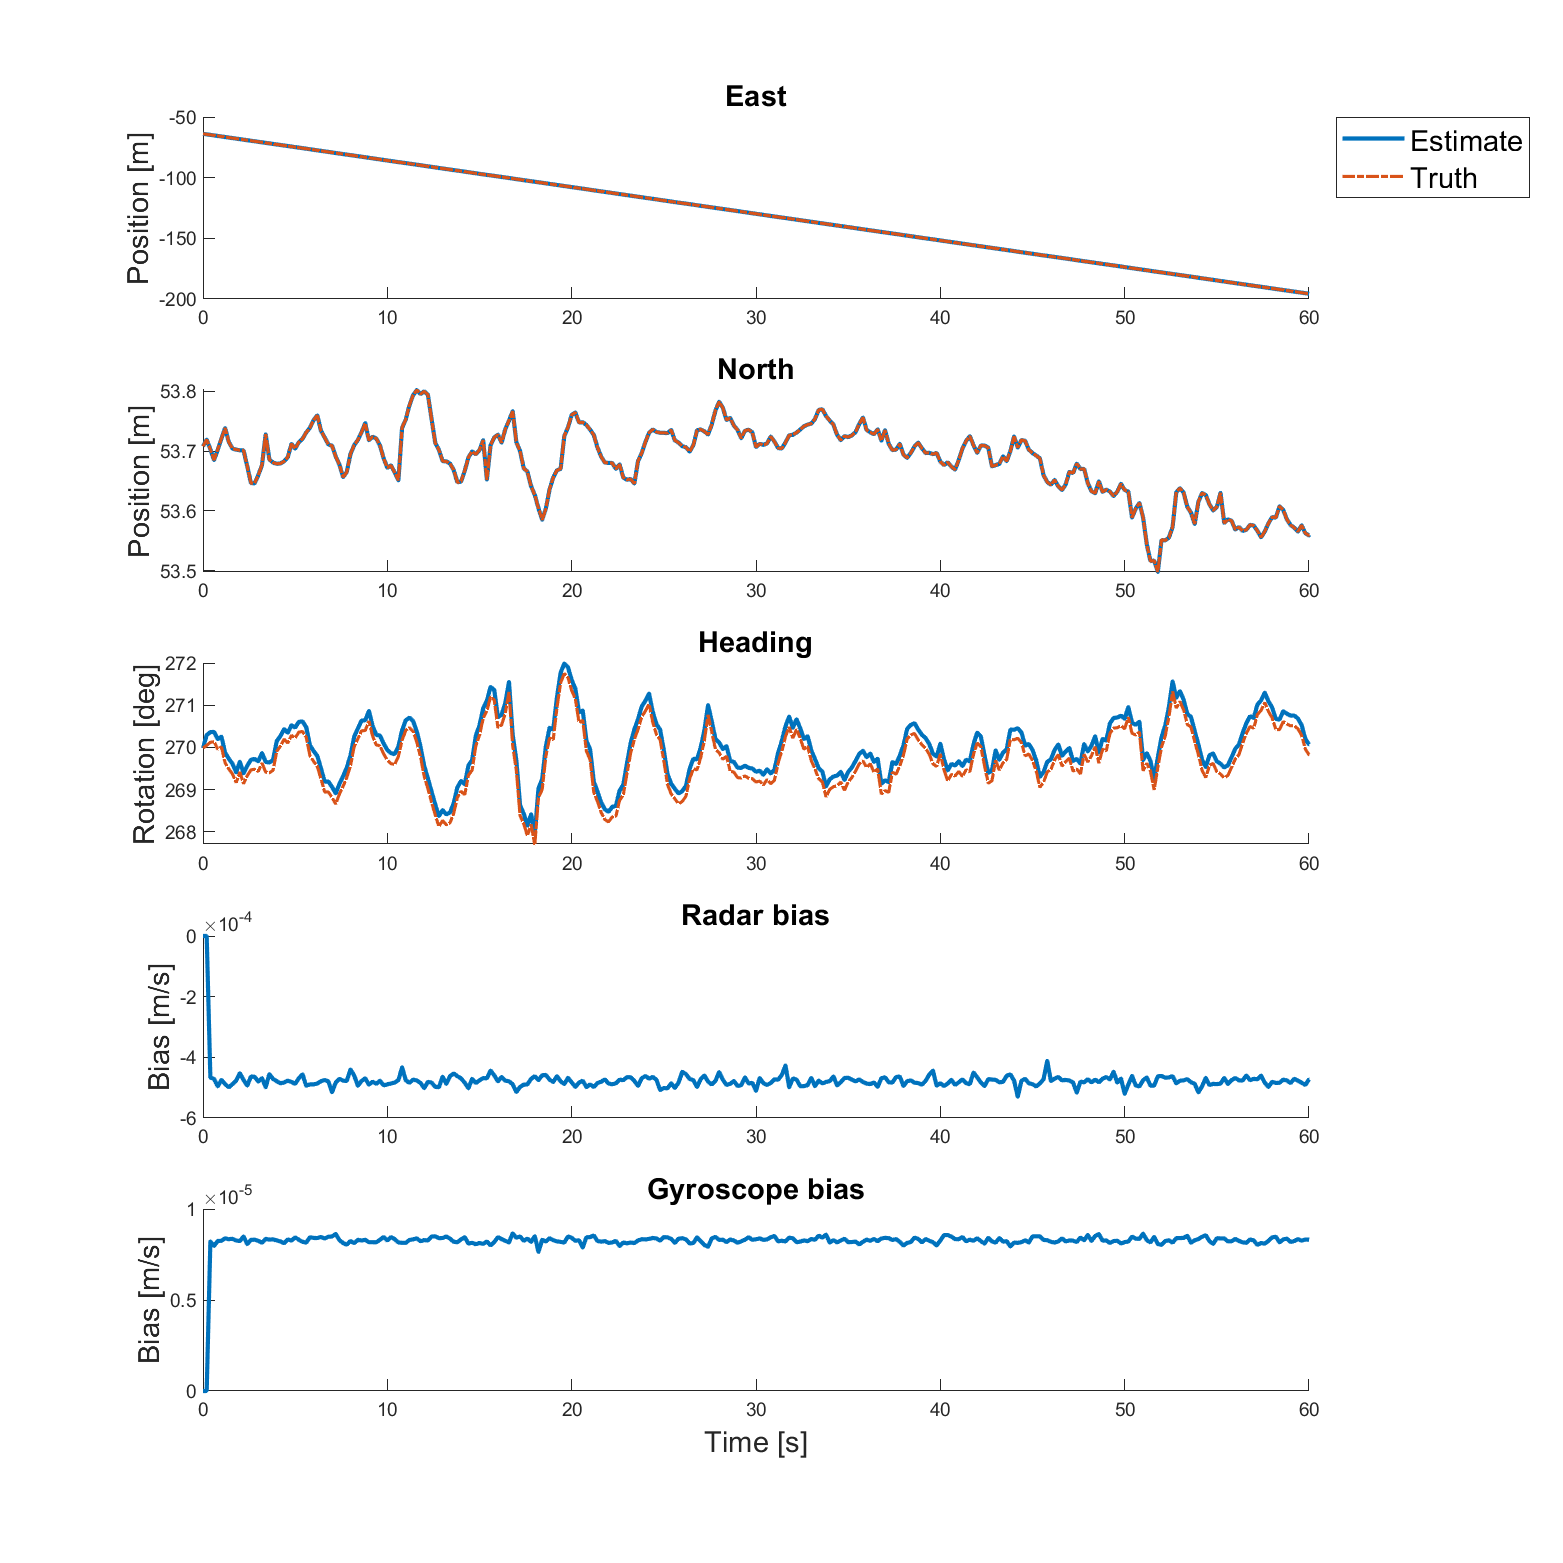
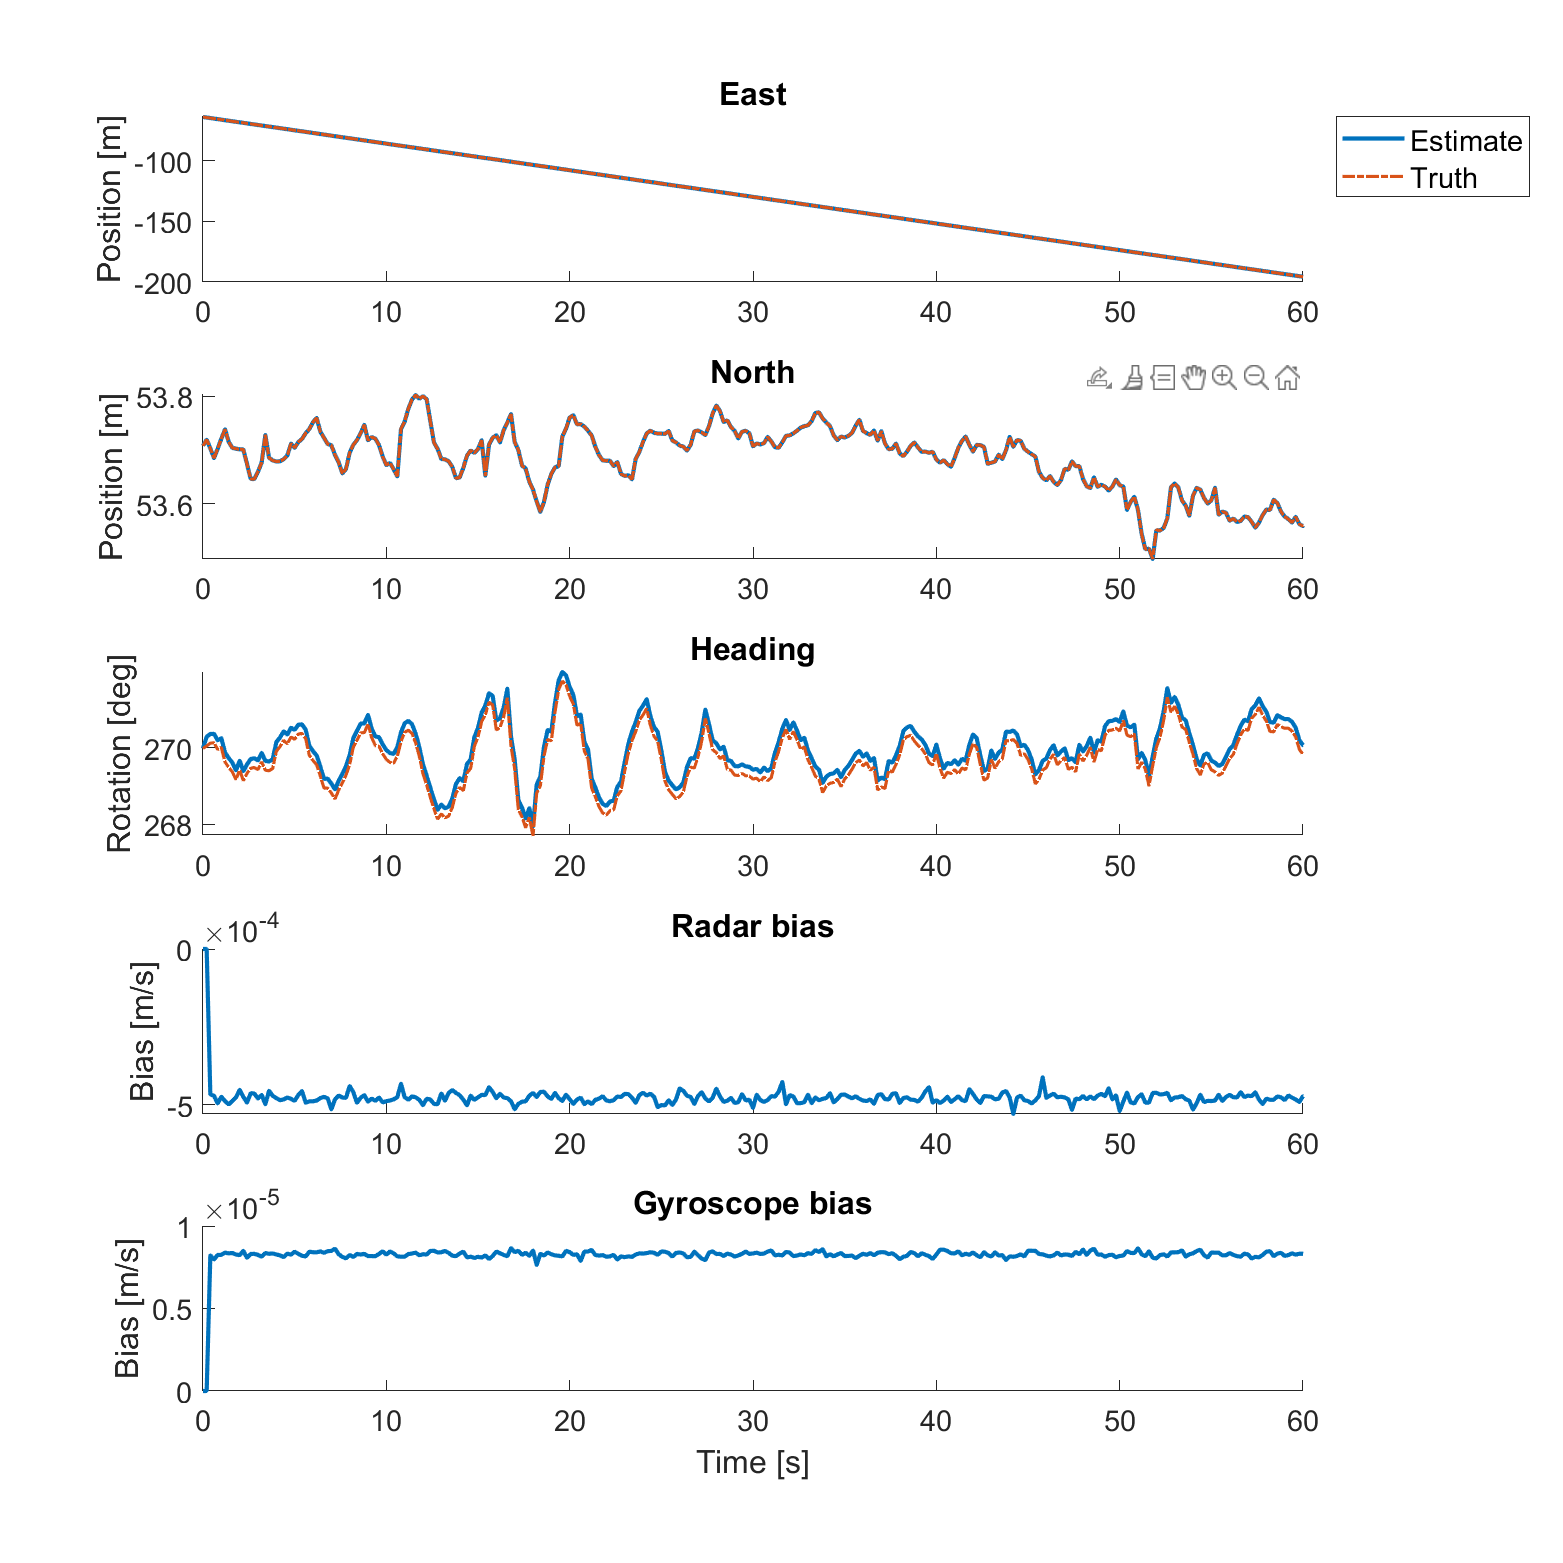
Finished Question 3

diff --git a/hw3.tex b/hw3.tex
@@ -309,12 +309,115 @@
             \item[ii.] simply update the A matrix at every time step with our measurements or estimates
         \end{itemize}
         Download the data \textit{hw3\_3} from the website and run the filter sampled at 5 Hz}
+
+    \solution{%
+        To filter the measurements, I chose option \textit{ii}. Updating the discrete $\mathbf{A}_d$ and $\mathbf{B}_d$ matrices at each time step can be seen in equation \ref{eq:ad} and \ref{eq:bd}.
+
+        \begin{equation}
+            \begin{split}
+                \mathbf{A}_d & =
+                \begin{bmatrix}
+                    1 & 0 & 0 & -\sin(\hat{\psi})\Delta t & 0         \\
+                    0 & 1 & 0 & -\cos(\hat{\psi})\Delta t & 0         \\
+                    0 & 0 & 1 & 0                         & -\Delta t \\
+                    0 & 0 & 0 & 1                         & 0         \\
+                    0 & 0 & 0 & 0                         & 1         \\
+                \end{bmatrix}
+            \end{split}
+            \label{eq:ad}
+        \end{equation}
+
+        \begin{equation}
+            \begin{split}
+                \mathbf{B}_d & =
+                \begin{bmatrix}
+                    \sin(\hat{\psi})\Delta t & 0        \\
+                    \cos(\hat{\psi})\Delta t & 0        \\
+                    0                        & \Delta t \\
+                    0                        & 0        \\
+                    0                        & 0        \\
+                \end{bmatrix}
+            \end{split}
+            \label{eq:bd}
+        \end{equation}
+
+        After updating the discrete $\mathbf{A}_d$ and $\mathbf{B}_d$ matrices, we can proceed with the \textit{Time Update} of the Extended Kalman Filter (Equation \ref{eq:MU}).
+
+        \begin{equation}
+            \begin{split}
+                \mathbf{\hat{x}}^t_k & = \mathbf{A}_d \mathbf{\hat{x}}^m_{k-1} + \mathbf{B}_d \mathbf{U}_{k-1}\\
+                \mathbf{P}^t_k & = \mathbf{A}_d \mathbf{P}^m_k \mathbf{A}_d^T + \mathbf{Q}_k\\
+            \end{split}
+            \label{eq:MU}
+        \end{equation}
+
+        Where $\mathbf{U}_{k-1}$ are the estimated radar and gyroscope sensor biases. Equation \ref{eq:TU} describes the \textit{Measurement Update} of the Extended Kalman Filter.
+
+        \begin{equation}
+            \begin{split}
+                \mathbf{L}_k & = \mathbf{P}^t_k \mathbf{C}^T_d \left(\mathbf{C}_d \mathbf{P}^t_k \mathbf{C}_d^T + R_k\right)^{-1}\\
+                \mathbf{P}^m_k & = \left(\mathbf{I} - \mathbf{L}_k \mathbf{C}_d\right)\mathbf{P}^t_k \\
+                \mathbf{\hat{x}}^m_k & = \mathbf{\hat{x}}^t_k + \mathbf{L}_k \left(Y_k - \mathbf{C}_d \mathbf{\hat{x}}^t_k\right) \\
+            \end{split}
+            \label{eq:TU}
+        \end{equation}
+
+        After trial and error with choosing the correct process noise matrix ($\mathbf{Q}_d$), we are able to filter the measurements fairly accurately. Figure \ref{fig:Q3} shows the first 60 seconds of the filter running using \textit{hw3\_3} as measurements.
+
+        \begin{figure}[!h]
+            \centering
+            \includegraphics[width=.75\linewidth]{Q3filter.png}
+            \caption{Estimated states using a discrete EKF.}
+            \label{fig:Q3}
+        \end{figure}
+        \clearpage
+    }
     \begin{parts}
-        \part{How did you choose the covariance values for $Q_d$ (especially for the radar and gyro biases)?}
+        \part{How did you choose the covariance values for $\mathbf{Q}_d$ (especially for the radar and gyro biases)?}
 
-        \part{How does the bias estimation compare to least squares solution? How do the bias estimate compare to the Recursive Least Squares solution if you make the covariance ($Q_d$) of the bias estimates equal to zero?}
+        \solution{%
+            Values for $\mathbf{Q}_d$ were determined to be very small because the measurements seem to have little noise on them. The radar and gyro biases were even smaller because the biases were assumed to be constant.
 
+            \begin{equation}
+                \begin{split}
+                    \mathbf{Q}_d & =
+                    \begin{bmatrix}
+                        0.01 & 0    & 0    & 0      & 0      \\
+                        0    & 0.01 & 0    & 0      & 0      \\
+                        0    & 0    & 0.01 & 0      & 0      \\
+                        0    & 0    & 0    & 0.0001 & 0      \\
+                        0    & 0    & 0    & 0      & 0.0001 \\
+                    \end{bmatrix}
+                \end{split}
+                \label{}
+            \end{equation}
+        }
+        \clearpage
+        \part{How does the bias estimation compare to least squares solution? How do the bias estimate compare to the Recursive Least Squares solution if you make the covariance ($\mathbf{Q}_d$) of the bias estimates equal to zero?}
+
+        \solution{%
+            The recursive least squares solution is considerably worse than the Kalman Filter. This is probably because the least squares algorithm assumes a linearized dynamics model compared to a the Extended Kalman Filter where a nonlinear dynamic model is expected.
+
+            \begin{figure}[!h]
+                \centering
+                \includegraphics[width=.75\linewidth]{Q3filter_b.png}
+                \caption{Comparison of Recursive Least Squares and an Extended Kalman Filter}
+                \label{}
+            \end{figure}
+        }
+        \clearpage
         \part{Integrate the last 40 seconds of data to see how well you have estimated the biases. This can simply be done by "turning off" the measurements in the observation matrix! Why do the bias estimates remain constant during the 40 second "outage"?}
+
+        \solution{%
+            The bias remains constant during the 'outage' because the measurement update does not happen. The measurement update is crucial because it updates the covariance matrix that utilizes the radar and gyroscope biases while filtering.
+
+            \begin{figure}[!h]
+                \centering
+                \includegraphics[width=.75\linewidth]{Q3filter_c.png}
+                \caption{Evaluation of Kalman Filter during 40 second 'outage'.}
+                \label{}
+            \end{figure}
+        }
 
     \end{parts}
     \clearpage

diff --git a/Q3.m b/Q3.m
@@ -86,6 +86,7 @@ for m = 1:length(data)
 end
 
 fig = figure('Position',[500 250 1000 1000]);
+
 tiledlayout(5,1)
 nexttile
 hold on
@@ -95,6 +96,8 @@ ylabel('Position [m]','FontSize',14)
 title('East','FontSize',14)
 legend('Estimate','Truth',Location='bestoutside',fontsize=14)
 xlim([0 60])
+ax = gca;
+ax.FontSize = 14;
 
 nexttile
 hold on
@@ -103,6 +106,8 @@ plot(time,North,'LineWidth',1.5,'LineStyle','-.')
 ylabel('Position [m]','FontSize',14)
 title('North','FontSize',14)
 xlim([0 60])
+ax = gca;
+ax.FontSize = 14;
 
 nexttile
 hold on
@@ -111,6 +116,8 @@ plot(time,Psi*180/pi,'LineWidth',1.5,'LineStyle','-.')
 ylabel('Rotation [deg]','FontSize',14)
 title('Heading','FontSize',14)
 xlim([0 60])
+ax = gca;
+ax.FontSize = 14;
     
 nexttile
 hold on
@@ -118,6 +125,8 @@ plot(time,X(4,:).*180/pi,'LineWidth',2)
 ylabel('Bias [m/s]','FontSize',14)
 title('Radar bias','FontSize',14)
 xlim([0 60])
+ax = gca;
+ax.FontSize = 14;
 
 nexttile
 hold on
@@ -127,4 +136,6 @@ title('Gyroscope bias','FontSize',14)
 xlabel('Time [s]','FontSize',14)
 xlim([0 60])
 
+ax = gca;
+ax.FontSize = 14;
 saveas(fig,'Q3filter.png')

diff --git a/Q3b.m b/Q3b.m
@@ -99,6 +99,8 @@ ylabel('Position [m]','FontSize',14)
 title('East','FontSize',14)
 legend('Least Squares','Estimate','Truth',Location='bestoutside',fontsize=14)
 xlim([0 60])
+ax = gca;
+ax.FontSize = 14;
 
 nexttile
 hold on
@@ -108,6 +110,8 @@ plot(time,North,'LineWidth',1.5,'LineStyle','-.','Color','#df961b')
 ylabel('Position [m]','FontSize',14)
 title('North','FontSize',14)
 xlim([0 60])
+ax = gca;
+ax.FontSize = 14;
 
 nexttile
 hold on
@@ -117,6 +121,8 @@ plot(time,Psi*180/pi,'LineWidth',1.5,'LineStyle','-.','Color','#df961b')
 ylabel('Rotation [deg]','FontSize',14)
 title('Heading','FontSize',14)
 xlim([0 60])
+ax = gca;
+ax.FontSize = 14;
     
 nexttile
 hold on
@@ -125,6 +131,8 @@ plot(time,X(4,:).*180/pi,'LineWidth',2,'Color','#1b79df')
 ylabel('Bias [m/s]','FontSize',14)
 title('Radar bias','FontSize',14)
 xlim([0 60])
+ax = gca;
+ax.FontSize = 14;
 
 nexttile
 hold on
@@ -134,5 +142,7 @@ ylabel('Bias [m/s]','FontSize',14)
 title('Gyroscope bias','FontSize',14)
 xlabel('Time [s]','FontSize',14)
 xlim([0 60])
+ax = gca;
+ax.FontSize = 14;
 
 saveas(fig,'Q3filter_b.png')

diff --git a/Q3c.m b/Q3c.m
@@ -73,6 +73,8 @@ ylabel('Position [m]','FontSize',14)
 title('East','FontSize',14)
 legend('Estimate','Truth',Location='bestoutside',fontsize=14)
 xlim([200 300])
+ax = gca;
+ax.FontSize = 14;
 
 nexttile
 hold on
@@ -81,6 +83,8 @@ plot(time,North,'LineWidth',1.5,'LineStyle','-.')
 ylabel('Position [m]','FontSize',14)
 title('North','FontSize',14)
 xlim([200 300])
+ax = gca;
+ax.FontSize = 14;
 
 nexttile
 hold on
@@ -89,6 +93,8 @@ plot(time,Psi*180/pi,'LineWidth',1.5,'LineStyle','-.')
 ylabel('Rotation [deg]','FontSize',14)
 title('Heading','FontSize',14)
 xlim([200 300])
+ax = gca;
+ax.FontSize = 14;
 
 nexttile
 hold on
@@ -96,6 +102,8 @@ plot(time,X(4,:).*180/pi,'LineWidth',2)
 ylabel('Bias [m/s]','FontSize',14)
 title('Radar bias','FontSize',14)
 xlim([200 300])
+ax = gca;
+ax.FontSize = 14;
 
 nexttile
 hold on
@@ -104,5 +112,7 @@ ylabel('Bias [m/s]','FontSize',14)
 title('Gyroscope bias','FontSize',14)
 xlabel('Time [s]','FontSize',14)
 xlim([200 300])
+ax = gca;
+ax.FontSize = 14;
 
 saveas(fig,'Q3filter_c.png')
